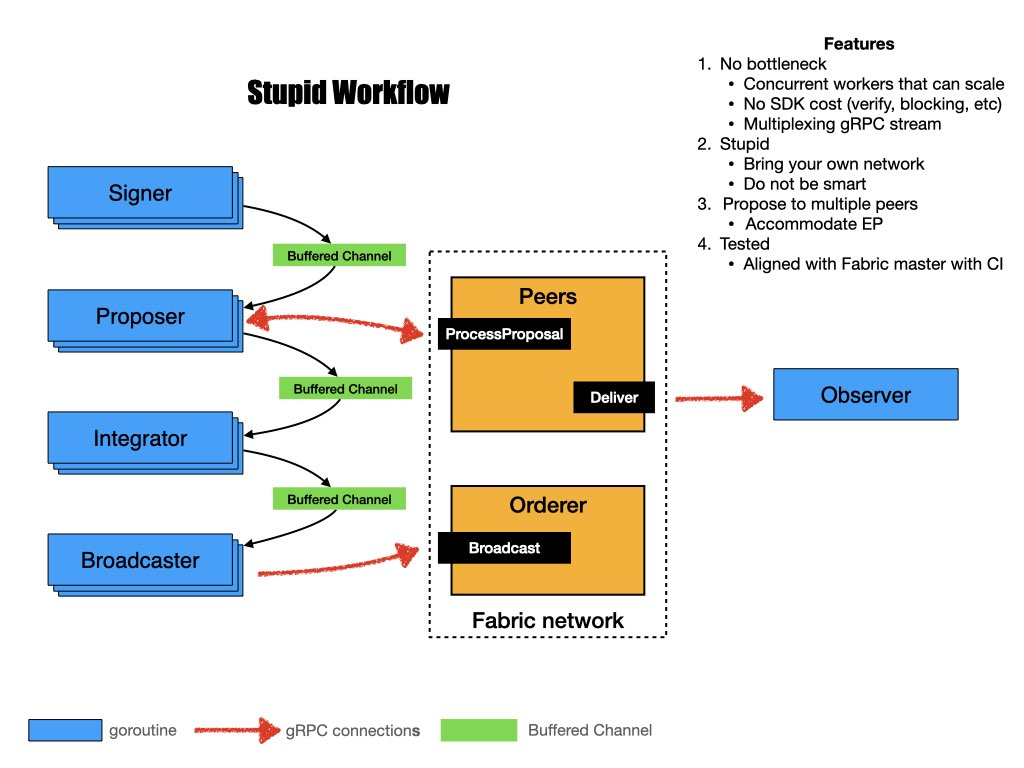
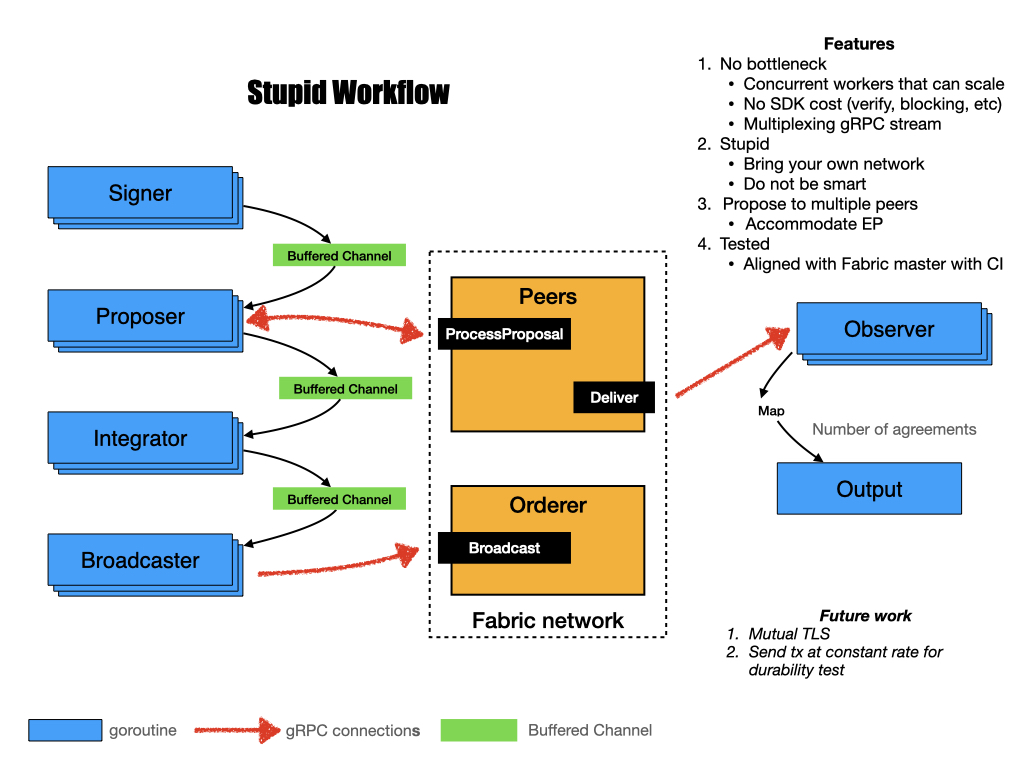
Fixes guoger/stupid/#43
fix up

diff --git a/pkg/infra/observer.go b/pkg/infra/observer.go
@@ -2,19 +2,52 @@ package infra
 
 import (
 	"fmt"
+	"sync"
 	"time"
 
 	"github.com/hyperledger/fabric-protos-go/peer"
 	log "github.com/sirupsen/logrus"
 )
 
-type Observer struct {
-	d      peer.Deliver_DeliverFilteredClient
-	logger *log.Logger
-	signal chan error
+type BlockCollection struct {
+	Collection map[uint64]int
+	lock       sync.Mutex
 }
 
-func CreateObserver(channel string, node Node, crypto *Crypto, logger *log.Logger) *Observer {
+type Observers struct {
+	workers []*Observer
+	logger  *log.Logger
+}
+
+type Observer struct {
+	Address   string
+	d         peer.Deliver_DeliverFilteredClient
+	logger    *log.Logger
+	signal    chan error
+	countDown int
+}
+
+func CreateObservers(channel string, nodes []Node, countDown int, crypto *Crypto, logger *log.Logger) *Observers {
+	var workers []*Observer
+	for _, node := range nodes {
+		workers = append(workers, CreateObserver(channel, node, countDown, crypto, logger))
+	}
+	return &Observers{workers: workers, logger: logger}
+}
+
+func (o *Observers) Start(N int, now time.Time, blockcollection *BlockCollection) {
+	for i := 0; i < len(o.workers); i++ {
+		go o.workers[i].Start(N, now, blockcollection)
+	}
+}
+
+func (o *Observers) Wait() {
+	for i := 0; i < len(o.workers); i++ {
+		o.workers[i].Wait()
+	}
+}
+
+func CreateObserver(channel string, node Node, countDown int, crypto *Crypto, logger *log.Logger) *Observer {
 	TLSCACert, err := GetTLSCACerts(node.TLSCACert)
 	if err != nil {
 		panic(err)
@@ -38,10 +71,10 @@ func CreateObserver(channel string, node Node, crypto *Crypto, logger *log.Logge
 		panic(err)
 	}
 
-	return &Observer{d: deliverer, signal: make(chan error, 10), logger: logger}
+	return &Observer{Address: node.Addr, d: deliverer, countDown: countDown, signal: make(chan error, 10), logger: logger}
 }
 
-func (o *Observer) Start(N int, now time.Time) {
+func (o *Observer) Start(N int, now time.Time, blockcollection *BlockCollection) {
 	defer close(o.signal)
 	o.logger.Debugf("start observer")
 	n := 0
@@ -56,8 +89,32 @@ func (o *Observer) Start(N int, now time.Time) {
 		}
 
 		fb := r.Type.(*peer.DeliverResponse_FilteredBlock)
+		// lock
+		blockcollection.lock.Lock()
+		// if meet
+		if i, ok := blockcollection.Collection[fb.FilteredBlock.Number]; ok {
+			if i > 0 {
+				// if countDown
+				i := i - 1
+				if i == 0 {
+					// if countDown zero
+					fmt.Printf("Time %8.2fs\tBlock %6d\tTx %6d\t \n", time.Since(now).Seconds(), fb.FilteredBlock.Number, len(fb.FilteredBlock.FilteredTransactions))
+				} else {
+					o.logger.Debugf("Not meet numbers recevied block, skip, %d peers need receive the block. \n", i)
+				}
+				blockcollection.Collection[fb.FilteredBlock.Number] = i
+			}
+		} else {
+			// otherwise new
+			blockcollection.Collection[fb.FilteredBlock.Number] = o.countDown - 1
+			if o.countDown == 1 {
+				fmt.Printf("Time %8.2fs\tBlock %6d\tTx %6d\t \n", time.Since(now).Seconds(), fb.FilteredBlock.Number, len(fb.FilteredBlock.FilteredTransactions))
+			}
+		}
+		// release lock
+		blockcollection.lock.Unlock()
 		n = n + len(fb.FilteredBlock.FilteredTransactions)
-		fmt.Printf("Time %8.2fs\tBlock %6d\tTx %6d\n", time.Since(now).Seconds(), fb.FilteredBlock.Number, len(fb.FilteredBlock.FilteredTransactions))
+		o.logger.Debugf("Time %8.2fs\tBlock %6d\tTx %6d\t Address %s\n", time.Since(now).Seconds(), fb.FilteredBlock.Number, len(fb.FilteredBlock.FilteredTransactions), o.Address)
 	}
 }
 

diff --git a/pkg/infra/config_test.go b/pkg/infra/config_test.go
@@ -27,7 +27,9 @@ org0orderer0: &org0orderer0
 endorsers:
   - *org1peer0
   - *org2peer0
-committer: *org2peer0
+committers: 
+  - *org2peer0
+numberofagreement: 1
 orderer: *org0orderer0
 
 channel: mychannel
@@ -55,17 +57,18 @@ client_per_conn: 40`
 					{Addr: "peer0.org1.example.com:7051", TLSCACert: "/path/to/org1peer0/tls/ca/cert"},
 					{Addr: "peer0.org2.example.com:7051", TLSCACert: "/path/to/org2peer0/tls/ca/cert"},
 				},
-				Committer:     infra.Node{Addr: "peer0.org2.example.com:7051", TLSCACert: "/path/to/org2peer0/tls/ca/cert"},
-				Orderer:       infra.Node{Addr: "orderer.example.com:7050", TLSCACert: "/path/to/orderer/tls/ca/cert"},
-				Channel:       "mychannel",
-				Chaincode:     "mycc",
-				Version:       "",
-				Args:          []string{"invoke", "a", "b", "1"},
-				MSPID:         "Org1MSP",
-				PrivateKey:    "/path/to/private.key",
-				SignCert:      "/path/to/sign.cert",
-				NumOfConn:     20,
-				ClientPerConn: 40,
+				Committers:        []infra.Node{{Addr: "peer0.org2.example.com:7051", TLSCACert: "/path/to/org2peer0/tls/ca/cert"}},
+				NumberOfAgreement: 1,
+				Orderer:           infra.Node{Addr: "orderer.example.com:7050", TLSCACert: "/path/to/orderer/tls/ca/cert"},
+				Channel:           "mychannel",
+				Chaincode:         "mycc",
+				Version:           "",
+				Args:              []string{"invoke", "a", "b", "1"},
+				MSPID:             "Org1MSP",
+				PrivateKey:        "/path/to/private.key",
+				SignCert:          "/path/to/sign.cert",
+				NumOfConn:         20,
+				ClientPerConn:     40,
 			}))
 		})
 	})

diff --git a/pkg/infra/config.go b/pkg/infra/config.go
@@ -9,18 +9,19 @@ import (
 )
 
 type Config struct {
-	Endorsers     []Node   `yaml:"endorsers"`
-	Committer     Node     `yaml:"committer"`
-	Orderer       Node     `yaml:"orderer"`
-	Channel       string   `yaml:"channel"`
-	Chaincode     string   `yaml:"chaincode"`
-	Version       string   `yaml:"version"`
-	Args          []string `yaml:"args"`
-	MSPID         string   `yaml:"mspid"`
-	PrivateKey    string   `yaml:"private_key"`
-	SignCert      string   `yaml:"sign_cert"`
-	NumOfConn     int      `yaml:"num_of_conn"`
-	ClientPerConn int      `yaml:"client_per_conn"`
+	Endorsers         []Node   `yaml:"endorsers"`
+	Committers        []Node   `yaml:"committers"`
+	NumberOfAgreement int      `yaml:"numberofagreement"`
+	Orderer           Node     `yaml:"orderer"`
+	Channel           string   `yaml:"channel"`
+	Chaincode         string   `yaml:"chaincode"`
+	Version           string   `yaml:"version"`
+	Args              []string `yaml:"args"`
+	MSPID             string   `yaml:"mspid"`
+	PrivateKey        string   `yaml:"private_key"`
+	SignCert          string   `yaml:"sign_cert"`
+	NumOfConn         int      `yaml:"num_of_conn"`
+	ClientPerConn     int      `yaml:"client_per_conn"`
 }
 
 type Node struct {

diff --git a/cmd/stupid/main.go b/cmd/stupid/main.go
@@ -36,6 +36,8 @@ func main() {
 	processed := make(chan *infra.Elements, 10)
 	envs := make(chan *infra.Elements, 10)
 	done := make(chan struct{})
+	blockcollection := &infra.BlockCollection{}
+	blockcollection.Collection = make(map[uint64]int)
 
 	assember := &infra.Assembler{Signer: crypto}
 
@@ -54,10 +56,10 @@ func main() {
 	broadcaster := infra.CreateBroadcasters(config.NumOfConn, config.Orderer, logger)
 	broadcaster.Start(envs, done)
 
-	observer := infra.CreateObserver(config.Channel, config.Committer, crypto, logger)
+	observers := infra.CreateObservers(config.Channel, config.Committers, config.NumberOfAgreement, crypto, logger)
 
 	start := time.Now()
-	go observer.Start(N, start)
+	go observers.Start(N, start, blockcollection)
 
 	for i := 0; i < N; i++ {
 		prop := infra.CreateProposal(
@@ -70,7 +72,7 @@ func main() {
 		raw <- &infra.Elements{Proposal: prop}
 	}
 
-	observer.Wait()
+	observers.Wait()
 	duration := time.Since(start)
 	close(done)
 	logger.Infof("Completed processing transactions.")

diff --git a/README.md b/README.md
@@ -47,8 +47,8 @@ endorsers:
   - addr: localhost:7051
     tls_ca_cert: /path/to/peer2/tls/ca/cert
 committer:
-  addr: localhost:7051
-  tls_ca_cert: /path/to/peer2/tls/ca/cert
+  - addr: localhost:7051
+    tls_ca_cert: /path/to/peer2/tls/ca/cert
 orderer:
   addr: localhost:7050
   tls_ca_cert: /path/to/orderer/tls/ca/cert
@@ -65,7 +65,9 @@ client_per_conn: 10
 
 `endorsers`: include the addr and tls ca cert of peers. Peer address is in IP:Port format. You may need to add peer name, i.e. `peer0.org1.example.com,peer0.org2.example.com` to your `/etc/hosts`
 
-`committer`: observe tx commitment from these peers.
+`committers`: observe tx commitment from these peers. If you want to observe over 50% of peers on your network, you should selected and put them here.
+
+`numberofagreement`: how many committers received the block see as successed.
 
 `orderer`: include the addr and tls ca cert of orderer. Orderer address is in IP:Port format. It does not support sending traffic to multiple orderers, yet. You may need to add orderer name, i.e. `orderer.example.com` to your `/etc/hosts`
 
